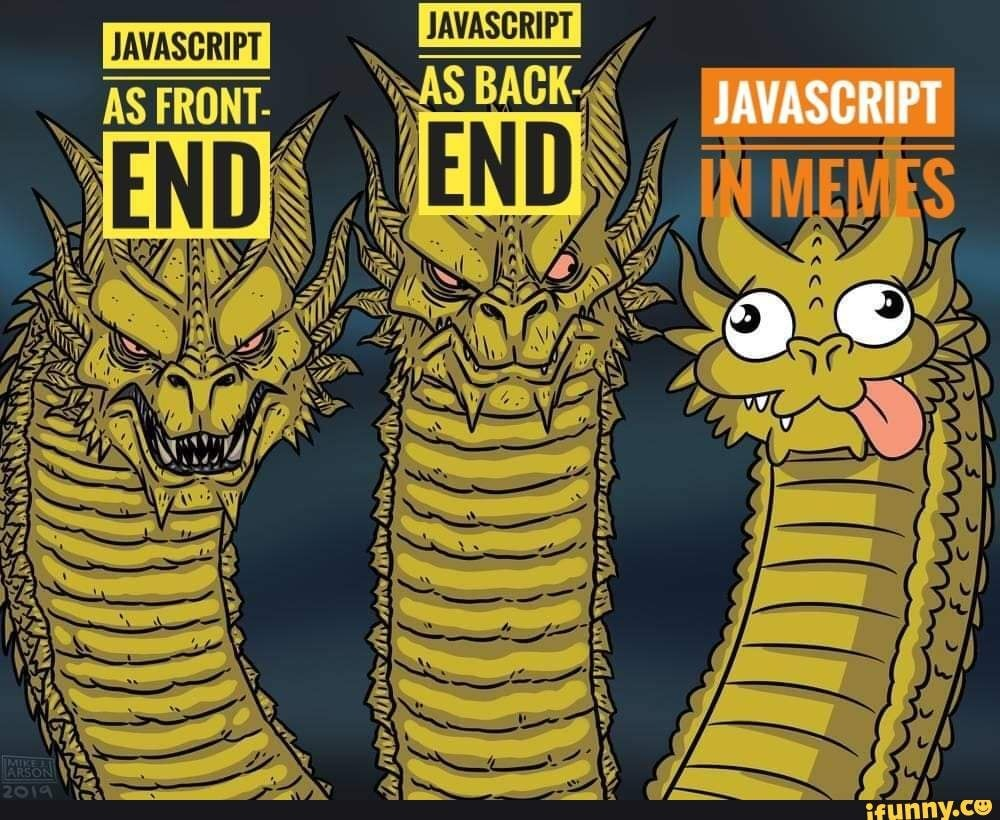
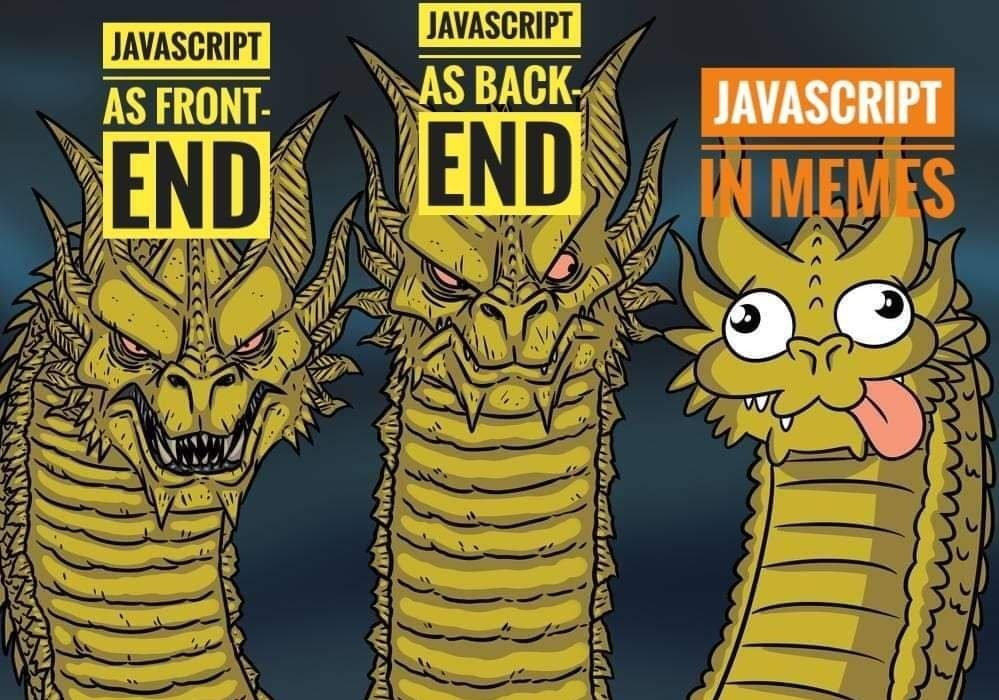
feat: update styles for memes and controls (Tue, Sep 19, 2023 10:58:00 AM)

diff --git a/index.html b/index.html
@@ -17,36 +17,36 @@
             <div class="slider">
                 <div class="memes">
                     <div class="meme">
-                        <div class="meme-img meme-img1">
-                            <img src="assets/1645080899113285789.jpg" alt="first image">
+                        <div class="meme__img-container">
+                            <img class="meme__img" src="assets/1645080899113285789.jpg" alt="first image">
                         </div>
-                        <div class="meme-text"><p>So different Javascript</p></div>
+                        <div class="meme__text"><p>So different Javascript</p></div>
                     </div>
                     <div class="meme">
-                        <div class="meme-img meme-img1">
-                            <img src="assets/233596_10_trinixy_ru.jpg" alt="second image">
+                        <div class="meme__img-container">
+                            <img class="meme__img" src="assets/233596_10_trinixy_ru.jpg" alt="second image">
                         </div>
-                        <div class="meme-text"><p>So beautiful!</p></div>
+                        <div class="meme__text"><p>So beautiful!</p></div>
                     </div>
                     <div class="meme">
-                        <div class="meme-img meme-img1">
-                            <img src="assets/dfccdf199808067969121ec5e2842623.jpg" alt="third image">
+                        <div class="meme__img-container">
+                            <img class="meme__img" src="assets/dfccdf199808067969121ec5e2842623.jpg" alt="third image">
                         </div>
-                        <div class="meme-text"><p>Opportunities...</p></div>
+                        <div class="meme__text"><p>Opportunities...</p></div>
                     </div>
                     <div class="meme">
-                        <div class="meme-img meme-img1">
-                            <img src="assets/scale_2400.jpg" alt="fourth image">
+                        <div class="meme__img-container">
+                            <img class="meme__img" src="assets/scale_2400.jpg" alt="fourth image">
                         </div>
-                        <div class="meme-text"><p>Higher and higher</p></div>                            
+                        <div class="meme__text"><p>Higher and higher</p></div>                            
                     </div>
                 </div>
             </div>	
             <div class="controls">
-                <label for="meme1"></label>
-                <label for="meme2"></label>
-                <label for="meme3"></label>
-                <label for="meme4"></label>
+                <label class="control-1" for="meme1"></label>
+                <label class="control-2" for="meme2"></label>
+                <label class="control-3" for="meme3"></label>
+                <label class="control-4" for="meme4"></label>
             </div>
         </div>
     </main>

diff --git a/style.css b/style.css
@@ -20,7 +20,7 @@ input {
 }
 
 .wrapper {
-    max-width: 1024px;
+    max-width: 900px;
     padding: 0 20px;
     margin: 0 auto;
 }
@@ -37,15 +37,22 @@ input {
     align-items: center;
 }
 
-.meme-img {
+.meme__img-container {
     display: flex;
     justify-content: center;
     align-items: center;
-    width: 1025px;
-    height: 800px;
+    width: 900px;
+    height: 600px;
+    background-color: rgb(17, 30, 30);
+    overflow: hidden;
 }
 
-.meme-text {
+.meme__img {
+    height: 600px;
+    border-radius: 20px;
+}
+
+.meme__text {
     width: 100%;
     color: mintcream;
     text-align: start;
@@ -78,16 +85,32 @@ label {
     margin-left: 0;
 }
 
+#meme1:checked ~.controls .control-1 {
+    background-color: aliceblue;
+}
+
 #meme2:checked ~.slider .memes {
     margin-left: -100%;
+}
+
+#meme2:checked ~.controls .control-2 {
+    background-color: aliceblue;
 }
 
 #meme3:checked ~.slider .memes {
     margin-left: -200%;
 }
 
+#meme3:checked ~.controls .control-3 {
+    background-color: aliceblue;
+}
+
 #meme4:checked ~.slider .memes {
     margin-left: -300%;
+}
+
+#meme4:checked ~.controls .control-4 {
+    background-color: aliceblue;
 }
 
 .controls {
